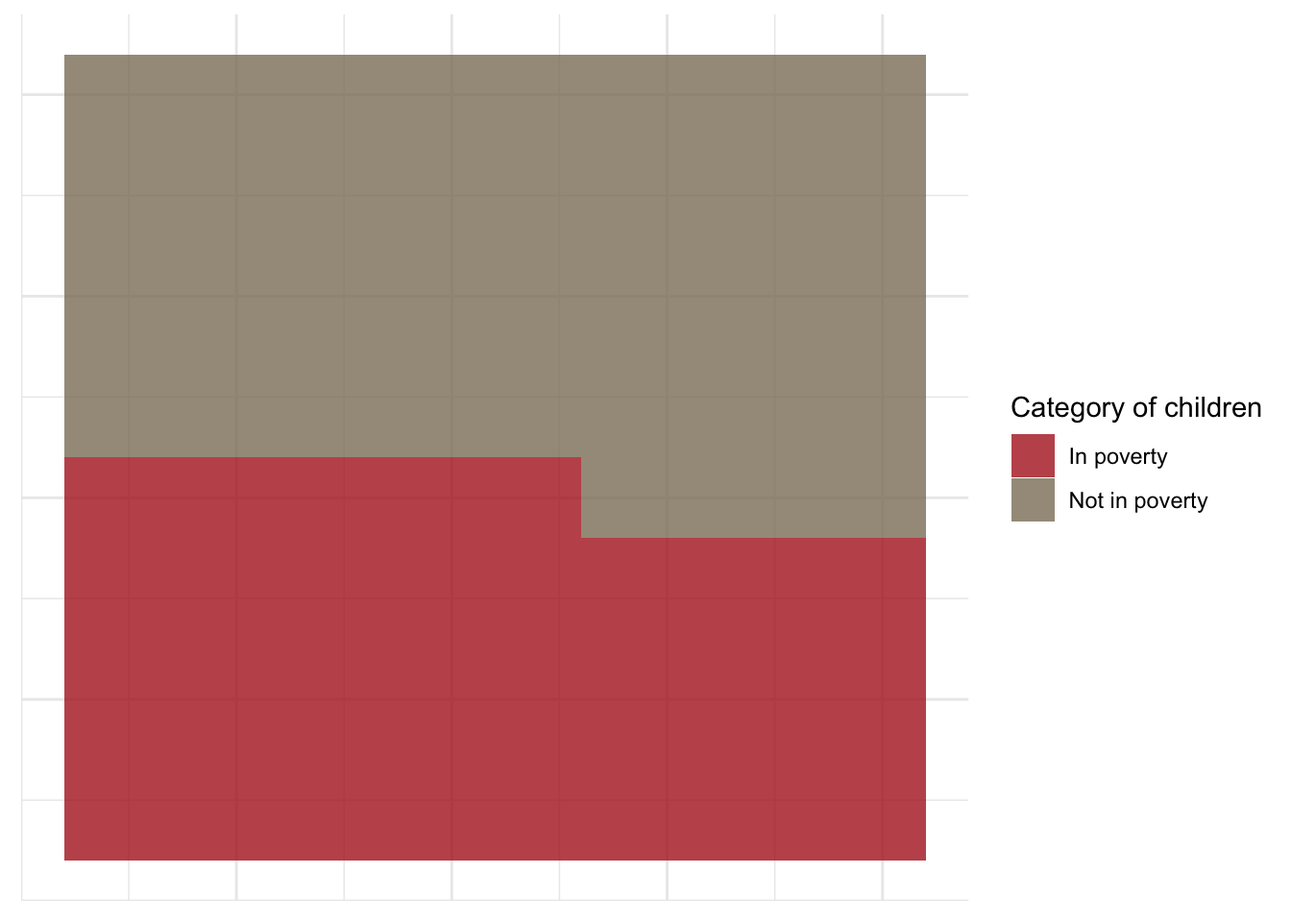
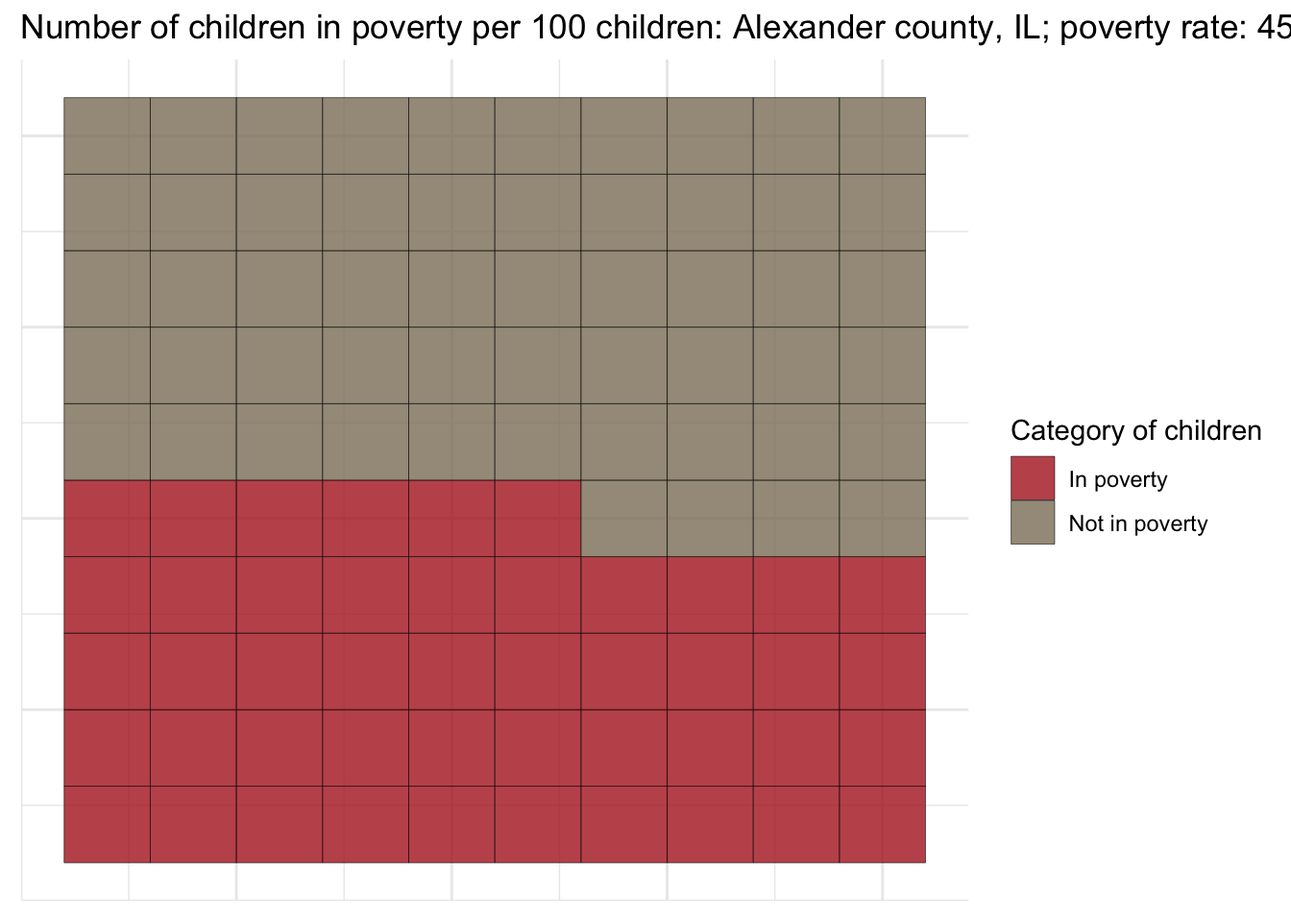
updates

diff --git a/fall_2024/activities/solutions/00_ggplot2refresher_solutions.html b/fall_2024/activities/solutions/00_ggplot2refresher_solutions.html
@@ -20,40 +20,6 @@ ul.task-list li input[type="checkbox"] {
   margin: 0 0.8em 0.2em -1em; /* quarto-specific, see https://github.com/quarto-dev/quarto-cli/issues/4556 */ 
   vertical-align: middle;
 }
-/* CSS for syntax highlighting */
-pre > code.sourceCode { white-space: pre; position: relative; }
-pre > code.sourceCode > span { line-height: 1.25; }
-pre > code.sourceCode > span:empty { height: 1.2em; }
-.sourceCode { overflow: visible; }
-code.sourceCode > span { color: inherit; text-decoration: inherit; }
-div.sourceCode { margin: 1em 0; }
-pre.sourceCode { margin: 0; }
-@media screen {
-div.sourceCode { overflow: auto; }
-}
-@media print {
-pre > code.sourceCode { white-space: pre-wrap; }
-pre > code.sourceCode > span { display: inline-block; text-indent: -5em; padding-left: 5em; }
-}
-pre.numberSource code
-  { counter-reset: source-line 0; }
-pre.numberSource code > span
-  { position: relative; left: -4em; counter-increment: source-line; }
-pre.numberSource code > span > a:first-child::before
-  { content: counter(source-line);
-    position: relative; left: -1em; text-align: right; vertical-align: baseline;
-    border: none; display: inline-block;
-    -webkit-touch-callout: none; -webkit-user-select: none;
-    -khtml-user-select: none; -moz-user-select: none;
-    -ms-user-select: none; user-select: none;
-    padding: 0 4px; width: 4em;
-  }
-pre.numberSource { margin-left: 3em;  padding-left: 4px; }
-div.sourceCode
-  {   }
-@media screen {
-pre > code.sourceCode > span > a:first-child::before { text-decoration: underline; }
-}
 </style>
 
 
@@ -114,86 +80,6 @@ pre > code.sourceCode > span > a:first-child::before { text-decoration: underlin
 <p><em>Bonus 1</em>: also add a text note with the county at / closest to the median poverty rate for each group</p>
 <p><em>Bonus 2</em>: repeat the exercise but include the facetting by state</p>
 <div class="cell">
-<div class="sourceCode cell-code" id="cb1"><pre class="sourceCode r code-with-copy"><code class="sourceCode r"><span id="cb1-1"><a href="#cb1-1" aria-hidden="true" tabindex="-1"></a><span class="do">## imports</span></span>
-<span id="cb1-2"><a href="#cb1-2" aria-hidden="true" tabindex="-1"></a><span class="fu">library</span>(ggplot2)</span>
-<span id="cb1-3"><a href="#cb1-3" aria-hidden="true" tabindex="-1"></a><span class="fu">library</span>(tidyverse)</span></code><button title="Copy to Clipboard" class="code-copy-button"><i class="bi"></i></button></pre></div>
-<div class="cell-output cell-output-stderr">
-<pre><code>── Attaching packages ─────────────────────────────────────── tidyverse 1.3.2 ──
-✔ tibble  3.2.1     ✔ dplyr   1.1.4
-✔ tidyr   1.3.0     ✔ stringr 1.5.1
-✔ readr   2.1.5     ✔ forcats 0.5.2
-✔ purrr   1.0.2     </code></pre>
-</div>
-<div class="cell-output cell-output-stderr">
-<pre><code>Warning: package 'readr' was built under R version 4.2.3</code></pre>
-</div>
-<div class="cell-output cell-output-stderr">
-<pre><code>Warning: package 'dplyr' was built under R version 4.2.3</code></pre>
-</div>
-<div class="cell-output cell-output-stderr">
-<pre><code>Warning: package 'stringr' was built under R version 4.2.3</code></pre>
-</div>
-<div class="cell-output cell-output-stderr">
-<pre><code>── Conflicts ────────────────────────────────────────── tidyverse_conflicts() ──
-✖ dplyr::filter() masks stats::filter()
-✖ dplyr::lag()    masks stats::lag()</code></pre>
-</div>
-<div class="sourceCode cell-code" id="cb7"><pre class="sourceCode r code-with-copy"><code class="sourceCode r"><span id="cb7-1"><a href="#cb7-1" aria-hidden="true" tabindex="-1"></a><span class="fu">head</span>(midwest)</span></code><button title="Copy to Clipboard" class="code-copy-button"><i class="bi"></i></button></pre></div>
-<div class="cell-output cell-output-stdout">
-<pre><code># A tibble: 6 × 28
-    PID county   state  area poptotal popdensity popwhite popblack popamerindian
-  &lt;int&gt; &lt;chr&gt;    &lt;chr&gt; &lt;dbl&gt;    &lt;int&gt;      &lt;dbl&gt;    &lt;int&gt;    &lt;int&gt;         &lt;int&gt;
-1   561 ADAMS    IL    0.052    66090      1271.    63917     1702            98
-2   562 ALEXAND… IL    0.014    10626       759      7054     3496            19
-3   563 BOND     IL    0.022    14991       681.    14477      429            35
-4   564 BOONE    IL    0.017    30806      1812.    29344      127            46
-5   565 BROWN    IL    0.018     5836       324.     5264      547            14
-6   566 BUREAU   IL    0.05     35688       714.    35157       50            65
-# ℹ 19 more variables: popasian &lt;int&gt;, popother &lt;int&gt;, percwhite &lt;dbl&gt;,
-#   percblack &lt;dbl&gt;, percamerindan &lt;dbl&gt;, percasian &lt;dbl&gt;, percother &lt;dbl&gt;,
-#   popadults &lt;int&gt;, perchsd &lt;dbl&gt;, percollege &lt;dbl&gt;, percprof &lt;dbl&gt;,
-#   poppovertyknown &lt;int&gt;, percpovertyknown &lt;dbl&gt;, percbelowpoverty &lt;dbl&gt;,
-#   percchildbelowpovert &lt;dbl&gt;, percadultpoverty &lt;dbl&gt;,
-#   percelderlypoverty &lt;dbl&gt;, inmetro &lt;int&gt;, category &lt;chr&gt;</code></pre>
-</div>
-<div class="sourceCode cell-code" id="cb9"><pre class="sourceCode r code-with-copy"><code class="sourceCode r"><span id="cb9-1"><a href="#cb9-1" aria-hidden="true" tabindex="-1"></a><span class="fu">summary</span>(midwest<span class="sc">$</span>percchildbelowpovert)</span></code><button title="Copy to Clipboard" class="code-copy-button"><i class="bi"></i></button></pre></div>
-<div class="cell-output cell-output-stdout">
-<pre><code>   Min. 1st Qu.  Median    Mean 3rd Qu.    Max. 
-  1.919  11.624  15.270  16.447  20.352  64.308 </code></pre>
-</div>
-<div class="sourceCode cell-code" id="cb11"><pre class="sourceCode r code-with-copy"><code class="sourceCode r"><span id="cb11-1"><a href="#cb11-1" aria-hidden="true" tabindex="-1"></a><span class="do">## add metro categorical</span></span>
-<span id="cb11-2"><a href="#cb11-2" aria-hidden="true" tabindex="-1"></a>midwest <span class="ot">&lt;-</span> midwest <span class="sc">%&gt;%</span></span>
-<span id="cb11-3"><a href="#cb11-3" aria-hidden="true" tabindex="-1"></a>    <span class="fu">mutate</span>(<span class="at">metro_cat =</span> <span class="fu">case_when</span>(inmetro <span class="sc">==</span> <span class="dv">1</span> <span class="sc">~</span> <span class="st">"Metropolitan"</span>,</span>
-<span id="cb11-4"><a href="#cb11-4" aria-hidden="true" tabindex="-1"></a>                                 inmetro <span class="sc">==</span> <span class="dv">0</span> <span class="sc">~</span> <span class="st">"Non-metropolitan"</span>,</span>
-<span id="cb11-5"><a href="#cb11-5" aria-hidden="true" tabindex="-1"></a>                                 <span class="cn">TRUE</span> <span class="sc">~</span> <span class="cn">NA_character_</span>))</span>
-<span id="cb11-6"><a href="#cb11-6" aria-hidden="true" tabindex="-1"></a></span>
-<span id="cb11-7"><a href="#cb11-7" aria-hidden="true" tabindex="-1"></a><span class="do">## outside the plot, find the highest and median rate counties </span></span>
-<span id="cb11-8"><a href="#cb11-8" aria-hidden="true" tabindex="-1"></a>max_county <span class="ot">&lt;-</span> midwest <span class="sc">%&gt;%</span> </span>
-<span id="cb11-9"><a href="#cb11-9" aria-hidden="true" tabindex="-1"></a>            <span class="fu">group_by</span>(metro_cat) <span class="sc">%&gt;%</span></span>
-<span id="cb11-10"><a href="#cb11-10" aria-hidden="true" tabindex="-1"></a>            <span class="fu">slice</span>(<span class="fu">which.max</span>(percchildbelowpovert))</span>
-<span id="cb11-11"><a href="#cb11-11" aria-hidden="true" tabindex="-1"></a>min_county <span class="ot">&lt;-</span> midwest <span class="sc">%&gt;%</span></span>
-<span id="cb11-12"><a href="#cb11-12" aria-hidden="true" tabindex="-1"></a>            <span class="fu">group_by</span>(metro_cat) <span class="sc">%&gt;%</span></span>
-<span id="cb11-13"><a href="#cb11-13" aria-hidden="true" tabindex="-1"></a>            <span class="fu">slice</span>(<span class="fu">which.min</span>(percchildbelowpovert))</span>
-<span id="cb11-14"><a href="#cb11-14" aria-hidden="true" tabindex="-1"></a></span>
-<span id="cb11-15"><a href="#cb11-15" aria-hidden="true" tabindex="-1"></a></span>
-<span id="cb11-16"><a href="#cb11-16" aria-hidden="true" tabindex="-1"></a><span class="do">## create violin plot </span></span>
-<span id="cb11-17"><a href="#cb11-17" aria-hidden="true" tabindex="-1"></a><span class="fu">ggplot</span>(midwest,</span>
-<span id="cb11-18"><a href="#cb11-18" aria-hidden="true" tabindex="-1"></a>       <span class="fu">aes</span>(<span class="at">x =</span> metro_cat, <span class="at">y =</span> percchildbelowpovert)) <span class="sc">+</span></span>
-<span id="cb11-19"><a href="#cb11-19" aria-hidden="true" tabindex="-1"></a>  <span class="fu">geom_violin</span>() <span class="sc">+</span></span>
-<span id="cb11-20"><a href="#cb11-20" aria-hidden="true" tabindex="-1"></a>  <span class="fu">geom_boxplot</span>(<span class="at">width=</span><span class="fl">0.1</span>) <span class="sc">+</span></span>
-<span id="cb11-21"><a href="#cb11-21" aria-hidden="true" tabindex="-1"></a>  <span class="fu">xlab</span>(<span class="st">"What kind of area?"</span>) <span class="sc">+</span></span>
-<span id="cb11-22"><a href="#cb11-22" aria-hidden="true" tabindex="-1"></a>  <span class="fu">ylab</span>(<span class="st">"Distribution: %</span><span class="sc">\n</span><span class="st">children in poverty"</span>) <span class="sc">+</span></span>
-<span id="cb11-23"><a href="#cb11-23" aria-hidden="true" tabindex="-1"></a>  <span class="fu">theme_bw</span>(<span class="at">base_size =</span> <span class="dv">24</span>) <span class="sc">+</span></span>
-<span id="cb11-24"><a href="#cb11-24" aria-hidden="true" tabindex="-1"></a>  <span class="fu">geom_text</span>(<span class="at">data =</span> max_county, </span>
-<span id="cb11-25"><a href="#cb11-25" aria-hidden="true" tabindex="-1"></a>            <span class="fu">aes</span>(<span class="at">x =</span> metro_cat, <span class="at">y =</span> percchildbelowpovert, </span>
-<span id="cb11-26"><a href="#cb11-26" aria-hidden="true" tabindex="-1"></a>                <span class="at">label =</span> <span class="fu">sprintf</span>(<span class="st">"%s, %s: Poverty rate: %s"</span>,</span>
-<span id="cb11-27"><a href="#cb11-27" aria-hidden="true" tabindex="-1"></a>                                county, state, </span>
-<span id="cb11-28"><a href="#cb11-28" aria-hidden="true" tabindex="-1"></a>                                <span class="fu">round</span>(percchildbelowpovert, <span class="dv">2</span>)))) <span class="sc">+</span></span>
-<span id="cb11-29"><a href="#cb11-29" aria-hidden="true" tabindex="-1"></a>  <span class="fu">geom_text</span>(<span class="at">data =</span> min_county, </span>
-<span id="cb11-30"><a href="#cb11-30" aria-hidden="true" tabindex="-1"></a>            <span class="fu">aes</span>(<span class="at">x =</span> metro_cat, <span class="at">y =</span> percchildbelowpovert, </span>
-<span id="cb11-31"><a href="#cb11-31" aria-hidden="true" tabindex="-1"></a>                <span class="at">label =</span> <span class="fu">sprintf</span>(<span class="st">"%s, %s: Poverty rate: %s"</span>,</span>
-<span id="cb11-32"><a href="#cb11-32" aria-hidden="true" tabindex="-1"></a>                                county, state, </span>
-<span id="cb11-33"><a href="#cb11-33" aria-hidden="true" tabindex="-1"></a>                                <span class="fu">round</span>(percchildbelowpovert, <span class="dv">2</span>))))</span></code><button title="Copy to Clipboard" class="code-copy-button"><i class="bi"></i></button></pre></div>
 <div class="cell-output-display">
 <div>
 <figure class="figure">
@@ -219,41 +105,6 @@ pre > code.sourceCode > span > a:first-child::before { text-decoration: underlin
 <p><em>Hint</em>: you’ll want to do some aggregation to get counts before</p>
 <p><em>Resource</em>: https://cran.r-project.org/web/packages/ggalluvial/vignettes/ggalluvial.html</p>
 <div class="cell">
-<div class="sourceCode cell-code" id="cb12"><pre class="sourceCode r code-with-copy"><code class="sourceCode r"><span id="cb12-1"><a href="#cb12-1" aria-hidden="true" tabindex="-1"></a><span class="fu">library</span>(openxlsx)</span>
-<span id="cb12-2"><a href="#cb12-2" aria-hidden="true" tabindex="-1"></a><span class="fu">library</span>(ggalluvial)</span>
-<span id="cb12-3"><a href="#cb12-3" aria-hidden="true" tabindex="-1"></a></span>
-<span id="cb12-4"><a href="#cb12-4" aria-hidden="true" tabindex="-1"></a>hc <span class="ot">&lt;-</span> <span class="fu">read.xlsx</span>(<span class="st">"https://mpdc.dc.gov/sites/default/files/dc/sites/mpdc/publication/attachments/Hate%20Crimes%20Open%20Data_16.xlsx"</span>)</span>
-<span id="cb12-5"><a href="#cb12-5" aria-hidden="true" tabindex="-1"></a></span>
-<span id="cb12-6"><a href="#cb12-6" aria-hidden="true" tabindex="-1"></a>hc_summarise <span class="ot">&lt;-</span> hc <span class="sc">%&gt;%</span> <span class="fu">filter</span>(Type.of.Hate.Bias <span class="sc">%in%</span> </span>
-<span id="cb12-7"><a href="#cb12-7" aria-hidden="true" tabindex="-1"></a>                <span class="fu">c</span>(<span class="st">"Ethnicity/National Origin"</span>, </span>
-<span id="cb12-8"><a href="#cb12-8" aria-hidden="true" tabindex="-1"></a>                  <span class="st">"Race"</span>,</span>
-<span id="cb12-9"><a href="#cb12-9" aria-hidden="true" tabindex="-1"></a>                  <span class="st">"Religion"</span>)) <span class="sc">%&gt;%</span></span>
-<span id="cb12-10"><a href="#cb12-10" aria-hidden="true" tabindex="-1"></a>            <span class="fu">mutate</span>(<span class="at">tg_clean =</span> <span class="fu">trimws</span>(Targeted.Group),</span>
-<span id="cb12-11"><a href="#cb12-11" aria-hidden="true" tabindex="-1"></a>                   <span class="at">tbias_clean =</span> <span class="fu">ifelse</span>(Type.of.Hate.Bias <span class="sc">==</span> </span>
-<span id="cb12-12"><a href="#cb12-12" aria-hidden="true" tabindex="-1"></a>                                    <span class="st">"Ethnicity/National Origin"</span>, </span>
-<span id="cb12-13"><a href="#cb12-13" aria-hidden="true" tabindex="-1"></a>                                    <span class="st">"Ethnicity"</span>,</span>
-<span id="cb12-14"><a href="#cb12-14" aria-hidden="true" tabindex="-1"></a>                                    Type.of.Hate.Bias)) <span class="sc">%&gt;%</span></span>
-<span id="cb12-15"><a href="#cb12-15" aria-hidden="true" tabindex="-1"></a>            <span class="fu">group_by</span>(tbias_clean, tg_clean) <span class="sc">%&gt;%</span></span>
-<span id="cb12-16"><a href="#cb12-16" aria-hidden="true" tabindex="-1"></a>            <span class="fu">summarise</span>(<span class="at">freq =</span> <span class="fu">n</span>()) <span class="sc">%&gt;%</span></span>
-<span id="cb12-17"><a href="#cb12-17" aria-hidden="true" tabindex="-1"></a>            <span class="fu">ungroup</span>() <span class="sc">%&gt;%</span></span>
-<span id="cb12-18"><a href="#cb12-18" aria-hidden="true" tabindex="-1"></a>            <span class="fu">arrange</span>(<span class="fu">desc</span>(freq)) <span class="sc">%&gt;%</span></span>
-<span id="cb12-19"><a href="#cb12-19" aria-hidden="true" tabindex="-1"></a>            <span class="fu">slice</span>(<span class="dv">1</span><span class="sc">:</span><span class="dv">15</span>)</span></code><button title="Copy to Clipboard" class="code-copy-button"><i class="bi"></i></button></pre></div>
-<div class="cell-output cell-output-stderr">
-<pre><code>`summarise()` has grouped output by 'tbias_clean'. You can override using the
-`.groups` argument.</code></pre>
-</div>
-<div class="sourceCode cell-code" id="cb14"><pre class="sourceCode r code-with-copy"><code class="sourceCode r"><span id="cb14-1"><a href="#cb14-1" aria-hidden="true" tabindex="-1"></a><span class="fu">ggplot</span>(hc_summarise,</span>
-<span id="cb14-2"><a href="#cb14-2" aria-hidden="true" tabindex="-1"></a>       <span class="fu">aes</span>(<span class="at">y =</span> freq, </span>
-<span id="cb14-3"><a href="#cb14-3" aria-hidden="true" tabindex="-1"></a>          <span class="at">axis1 =</span> tbias_clean,</span>
-<span id="cb14-4"><a href="#cb14-4" aria-hidden="true" tabindex="-1"></a>          <span class="at">axis2 =</span> tg_clean, </span>
-<span id="cb14-5"><a href="#cb14-5" aria-hidden="true" tabindex="-1"></a>          <span class="at">fill =</span> tg_clean)) <span class="sc">+</span></span>
-<span id="cb14-6"><a href="#cb14-6" aria-hidden="true" tabindex="-1"></a>  <span class="fu">geom_alluvium</span>() <span class="sc">+</span></span>
-<span id="cb14-7"><a href="#cb14-7" aria-hidden="true" tabindex="-1"></a>  <span class="fu">geom_stratum</span>(<span class="at">width =</span> <span class="dv">1</span><span class="sc">/</span><span class="dv">12</span>, <span class="at">alpha =</span> <span class="fl">0.5</span>) <span class="sc">+</span></span>
-<span id="cb14-8"><a href="#cb14-8" aria-hidden="true" tabindex="-1"></a>  <span class="fu">geom_text</span>(<span class="at">stat =</span> <span class="st">"stratum"</span>, <span class="fu">aes</span>(<span class="at">label =</span> <span class="fu">after_stat</span>(stratum)),</span>
-<span id="cb14-9"><a href="#cb14-9" aria-hidden="true" tabindex="-1"></a>             <span class="at">size =</span> <span class="dv">2</span>) <span class="sc">+</span></span>
-<span id="cb14-10"><a href="#cb14-10" aria-hidden="true" tabindex="-1"></a>  <span class="fu">scale_x_discrete</span>(<span class="at">limits =</span> <span class="fu">c</span>(<span class="st">"Type of Bias"</span>, <span class="st">"Target of Bias"</span>),</span>
-<span id="cb14-11"><a href="#cb14-11" aria-hidden="true" tabindex="-1"></a>                   <span class="at">expand =</span> <span class="fu">c</span>(.<span class="dv">05</span>, .<span class="dv">05</span>)) <span class="sc">+</span></span>
-<span id="cb14-12"><a href="#cb14-12" aria-hidden="true" tabindex="-1"></a>  <span class="fu">labs</span>(<span class="at">fill =</span> <span class="st">"Target of bias"</span>)</span></code><button title="Copy to Clipboard" class="code-copy-button"><i class="bi"></i></button></pre></div>
 <div class="cell-output-display">
 <div>
 <figure class="figure">
@@ -265,44 +116,16 @@ pre > code.sourceCode > span > a:first-child::before { text-decoration: underlin
 </section>
 <section id="exercise-3-square-area-chart" class="level2">
 <h2 class="anchored" data-anchor-id="exercise-3-square-area-chart">Exercise 3: square area chart</h2>
-<p>https://stackoverflow.com/questions/25457966/create-grid-and-color-cells-with-average-values-of-scatterplot-using-ggplot2</p>
+<ul>
+<li><p>Create a square area chart to compare two counties in Illinois in the <code>midwest</code> data:</p>
+<ul>
+<li><p>The county with the highest poverty rate</p></li>
+<li><p>The county with the lowest poverty rate</p></li>
+</ul></li>
+<li><p>The square area chart should have 100 cells and color cells red to represent the count of children in poverty out of 100 (the rounded percentage) – eg if the poverty rate is 31\%, 31 out of the 100 squares should be red</p></li>
+<li><p><em>Hint</em>: you may want to use <code>geom_tile()</code></p></li>
+</ul>
 <div class="cell">
-<div class="sourceCode cell-code" id="cb15"><pre class="sourceCode r code-with-copy"><code class="sourceCode r"><span id="cb15-1"><a href="#cb15-1" aria-hidden="true" tabindex="-1"></a>il_maxcounty <span class="ot">&lt;-</span> midwest <span class="sc">%&gt;%</span></span>
-<span id="cb15-2"><a href="#cb15-2" aria-hidden="true" tabindex="-1"></a>          <span class="fu">filter</span>(state <span class="sc">==</span> <span class="st">"IL"</span>) <span class="sc">%&gt;%</span></span>
-<span id="cb15-3"><a href="#cb15-3" aria-hidden="true" tabindex="-1"></a>          <span class="fu">slice</span>(<span class="fu">which.max</span>(percchildbelowpovert)) </span>
-<span id="cb15-4"><a href="#cb15-4" aria-hidden="true" tabindex="-1"></a>il_mincounty <span class="ot">&lt;-</span> midwest <span class="sc">%&gt;%</span></span>
-<span id="cb15-5"><a href="#cb15-5" aria-hidden="true" tabindex="-1"></a>          <span class="fu">filter</span>(state <span class="sc">==</span> <span class="st">"IL"</span>) <span class="sc">%&gt;%</span></span>
-<span id="cb15-6"><a href="#cb15-6" aria-hidden="true" tabindex="-1"></a>          <span class="fu">slice</span>(<span class="fu">which.min</span>(percchildbelowpovert)) </span>
-<span id="cb15-7"><a href="#cb15-7" aria-hidden="true" tabindex="-1"></a></span>
-<span id="cb15-8"><a href="#cb15-8" aria-hidden="true" tabindex="-1"></a>color_map_pv <span class="ot">&lt;-</span> <span class="fu">c</span>(<span class="st">"In poverty"</span> <span class="ot">=</span> <span class="st">"firebrick"</span>,</span>
-<span id="cb15-9"><a href="#cb15-9" aria-hidden="true" tabindex="-1"></a>                  <span class="st">"Not in poverty"</span> <span class="ot">=</span> <span class="st">"wheat4"</span>)</span>
-<span id="cb15-10"><a href="#cb15-10" aria-hidden="true" tabindex="-1"></a></span>
-<span id="cb15-11"><a href="#cb15-11" aria-hidden="true" tabindex="-1"></a>sq_values <span class="ot">&lt;-</span> <span class="fu">data.frame</span>(<span class="fu">expand.grid</span>(<span class="dv">1</span><span class="sc">:</span><span class="dv">10</span>, <span class="dv">1</span><span class="sc">:</span><span class="dv">10</span>)) </span>
-<span id="cb15-12"><a href="#cb15-12" aria-hidden="true" tabindex="-1"></a>sq_values<span class="sc">$</span>child_pov_max <span class="ot">&lt;-</span> <span class="fu">c</span>(<span class="fu">rep</span>(<span class="st">"In poverty"</span>,</span>
-<span id="cb15-13"><a href="#cb15-13" aria-hidden="true" tabindex="-1"></a>                                 <span class="at">each =</span> </span>
-<span id="cb15-14"><a href="#cb15-14" aria-hidden="true" tabindex="-1"></a>                                <span class="fu">round</span>(il_maxcounty<span class="sc">$</span>percchildbelowpovert,</span>
-<span id="cb15-15"><a href="#cb15-15" aria-hidden="true" tabindex="-1"></a>                                      <span class="dv">0</span>)), </span>
-<span id="cb15-16"><a href="#cb15-16" aria-hidden="true" tabindex="-1"></a>                                <span class="fu">rep</span>(<span class="st">"Not in poverty"</span>,</span>
-<span id="cb15-17"><a href="#cb15-17" aria-hidden="true" tabindex="-1"></a>                                <span class="at">each =</span> <span class="dv">100</span><span class="sc">-</span> <span class="fu">round</span>(il_maxcounty<span class="sc">$</span>percchildbelowpovert,</span>
-<span id="cb15-18"><a href="#cb15-18" aria-hidden="true" tabindex="-1"></a>                                      <span class="dv">0</span>)))</span>
-<span id="cb15-19"><a href="#cb15-19" aria-hidden="true" tabindex="-1"></a>sq_values<span class="sc">$</span>child_pov_min <span class="ot">&lt;-</span> <span class="fu">c</span>(<span class="fu">rep</span>(<span class="st">"In poverty"</span>,</span>
-<span id="cb15-20"><a href="#cb15-20" aria-hidden="true" tabindex="-1"></a>                                 <span class="at">each =</span> </span>
-<span id="cb15-21"><a href="#cb15-21" aria-hidden="true" tabindex="-1"></a>                                <span class="fu">round</span>(il_mincounty<span class="sc">$</span>percchildbelowpovert,</span>
-<span id="cb15-22"><a href="#cb15-22" aria-hidden="true" tabindex="-1"></a>                                      <span class="dv">0</span>)), </span>
-<span id="cb15-23"><a href="#cb15-23" aria-hidden="true" tabindex="-1"></a>                                <span class="fu">rep</span>(<span class="st">"Not in poverty"</span>,</span>
-<span id="cb15-24"><a href="#cb15-24" aria-hidden="true" tabindex="-1"></a>                                <span class="at">each =</span> <span class="dv">100</span><span class="sc">-</span> <span class="fu">round</span>(il_mincounty<span class="sc">$</span>percchildbelowpovert,</span>
-<span id="cb15-25"><a href="#cb15-25" aria-hidden="true" tabindex="-1"></a>                                      <span class="dv">0</span>)))</span>
-<span id="cb15-26"><a href="#cb15-26" aria-hidden="true" tabindex="-1"></a></span>
-<span id="cb15-27"><a href="#cb15-27" aria-hidden="true" tabindex="-1"></a></span>
-<span id="cb15-28"><a href="#cb15-28" aria-hidden="true" tabindex="-1"></a></span>
-<span id="cb15-29"><a href="#cb15-29" aria-hidden="true" tabindex="-1"></a><span class="fu">ggplot</span>(sq_values, <span class="fu">aes</span>(<span class="at">x =</span> Var1, <span class="at">y =</span> Var2, <span class="at">fill =</span> child_pov_max)) <span class="sc">+</span></span>
-<span id="cb15-30"><a href="#cb15-30" aria-hidden="true" tabindex="-1"></a>  <span class="fu">geom_tile</span>(<span class="at">alpha =</span> <span class="fl">0.8</span>) <span class="sc">+</span></span>
-<span id="cb15-31"><a href="#cb15-31" aria-hidden="true" tabindex="-1"></a>  <span class="fu">theme_minimal</span>() <span class="sc">+</span></span>
-<span id="cb15-32"><a href="#cb15-32" aria-hidden="true" tabindex="-1"></a>  <span class="fu">scale_fill_manual</span>(<span class="at">values =</span> color_map_pv) <span class="sc">+</span></span>
-<span id="cb15-33"><a href="#cb15-33" aria-hidden="true" tabindex="-1"></a>  <span class="fu">theme</span>(<span class="at">axis.ticks =</span> <span class="fu">element_blank</span>(),</span>
-<span id="cb15-34"><a href="#cb15-34" aria-hidden="true" tabindex="-1"></a>        <span class="at">axis.text =</span> <span class="fu">element_blank</span>(),</span>
-<span id="cb15-35"><a href="#cb15-35" aria-hidden="true" tabindex="-1"></a>        <span class="at">axis.title =</span> <span class="fu">element_blank</span>()) <span class="sc">+</span></span>
-<span id="cb15-36"><a href="#cb15-36" aria-hidden="true" tabindex="-1"></a>  <span class="fu">labs</span>(<span class="at">fill =</span> <span class="st">"Category of children"</span>)</span></code><button title="Copy to Clipboard" class="code-copy-button"><i class="bi"></i></button></pre></div>
 <div class="cell-output-display">
 <div>
 <figure class="figure">
@@ -310,14 +133,6 @@ pre > code.sourceCode > span > a:first-child::before { text-decoration: underlin
 </figure>
 </div>
 </div>
-<div class="sourceCode cell-code" id="cb16"><pre class="sourceCode r code-with-copy"><code class="sourceCode r"><span id="cb16-1"><a href="#cb16-1" aria-hidden="true" tabindex="-1"></a><span class="fu">ggplot</span>(sq_values, <span class="fu">aes</span>(<span class="at">x =</span> Var1, <span class="at">y =</span> Var2, <span class="at">fill =</span> child_pov_min)) <span class="sc">+</span></span>
-<span id="cb16-2"><a href="#cb16-2" aria-hidden="true" tabindex="-1"></a>  <span class="fu">geom_tile</span>(<span class="at">alpha =</span> <span class="fl">0.8</span>) <span class="sc">+</span></span>
-<span id="cb16-3"><a href="#cb16-3" aria-hidden="true" tabindex="-1"></a>  <span class="fu">theme_minimal</span>() <span class="sc">+</span></span>
-<span id="cb16-4"><a href="#cb16-4" aria-hidden="true" tabindex="-1"></a>  <span class="fu">scale_fill_manual</span>(<span class="at">values =</span> color_map_pv) <span class="sc">+</span></span>
-<span id="cb16-5"><a href="#cb16-5" aria-hidden="true" tabindex="-1"></a>  <span class="fu">theme</span>(<span class="at">axis.ticks =</span> <span class="fu">element_blank</span>(),</span>
-<span id="cb16-6"><a href="#cb16-6" aria-hidden="true" tabindex="-1"></a>        <span class="at">axis.text =</span> <span class="fu">element_blank</span>(),</span>
-<span id="cb16-7"><a href="#cb16-7" aria-hidden="true" tabindex="-1"></a>        <span class="at">axis.title =</span> <span class="fu">element_blank</span>()) <span class="sc">+</span></span>
-<span id="cb16-8"><a href="#cb16-8" aria-hidden="true" tabindex="-1"></a>  <span class="fu">labs</span>(<span class="at">fill =</span> <span class="st">"Category of children"</span>)</span></code><button title="Copy to Clipboard" class="code-copy-button"><i class="bi"></i></button></pre></div>
 <div class="cell-output-display">
 <div>
 <figure class="figure">
